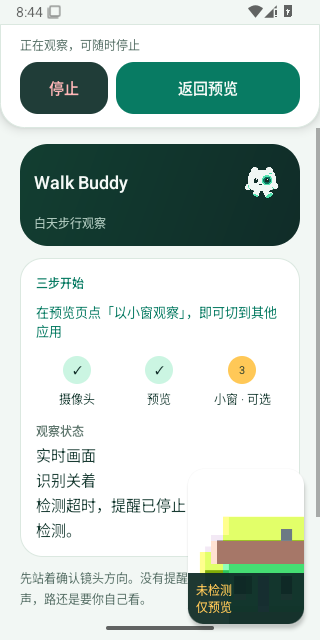
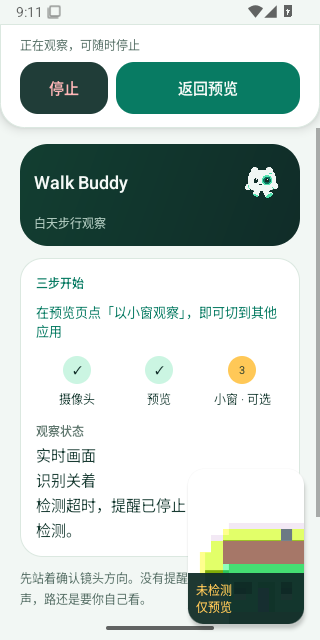
Record validated v0.4.19 recovery and native previews

Changed region(s): [[0.6562, 0.7812, 0.9688, 0.9062], [0.0625, 0.0, 0.125, 0.0312], [0.8438, 0.0, 0.875, 0.0312]]

diff --git a/docs/design/v0.4.19/README.md b/docs/design/v0.4.19/README.md
@@ -1,6 +1,6 @@
 # v0.4.19 检测故障后的原生界面
 
[2 lines of base64/hex data omitted]
 
 画面是 Android 模拟器的虚拟 Camera2 场景；检测超时由测试 worker 阻塞并注入过期分析心跳触发，不是实际识别了图中的对象，也不是实体设备测试。用例检查相机和纹理身份保留、采集/显示时间继续推进、检测与声音关闭、旧反馈清除，释放阻塞后的结果被丢弃。
 
@@ -8,4 +8,8 @@
 | --- | --- |
 | ![检测超时后保持画面，标题和详情显示仅预览](timeout-preview-api35.png) | ![首页上方的系统小窗继续显示画面与未检测状态](timeout-pip-api35.png) |
 
-小窗截图在根视图宽高均小于完整界面、缩窗后真实相机心跳继续推进后采集。首页的“停止 / 返回预览”仍位于顶部，小窗持续显示“未检测 / 仅预览”。这些截图验证此候选的基础预览故障场景；最终候选另增加了增强/姿态状态与故障小窗并存的布局检查，尚待云端完成，不能用本页替代 AR、TalkBack 或 Find X8 Ultra 验收。
+小窗截图在根视图宽高均小于完整界面、缩窗后真实相机心跳继续推进后采集。首页的“停止 / 返回预览”仍位于顶部，小窗持续显示“未检测 / 仅预览”。增强/姿态状态与故障小窗并存的组合布局检查已通过，两套 API 各完成 60 组故障提示呈现。AR、TalkBack 和 Find X8 Ultra 实机仍待验收。
+
+下图仅为 320×480、200% 字体、夜间模式的构造布局，未启动相机；检查故障提示和检测开关在初始视口可见，完整详情可继续滚动。
+
+![大字体故障状态布局测试](timeout-font200-night.png)

diff --git a/docs/profiles/detection-fallback-2026-10-30.md b/docs/profiles/detection-fallback-2026-10-30.md
@@ -30,3 +30,14 @@
 包含实际缩窗检查的 `9c1dc12` 在 [41027940942](https://github.com/cyanrbt/walkbuddy/actions/runs/41027940942) 两套 API 首次通过。最后补充故障小窗与空间增强、姿态提示并存的显示优先级：故障期间只显示“未检测 / 仅预览”，传感器更新不会重新叠加姿态提示；清除故障后可恢复正常的紧凑深度状态。30 组布局中的组合断言覆盖隐藏和恢复，仍待最终候选云端确认。
 
 已实际复核该候选缩窗后的[原生截图](../design/v0.4.19/README.md)：系统小窗位于首页上方，检测停止提示完整可见，首页“停止 / 返回预览”仍位于顶部。最后将纯布局构造中的检测/声音状态也设置为关闭，避免截图继承上一个正常状态；此项只改变测试构造，生产源码不变。
+
+## 最终候选云端核验
+
+最终提交 `9d9880511273f66f9e36b879a46bd52bf39c4df9` 的 [41031071106](https://github.com/cyanrbt/walkbuddy/actions/runs/41031071106) attempt 1 成功：API 35 job `123980674023`、API 36 job `123980674130` 均首次通过，含原严格的模型输入/输出、相机、锁屏/PiP 回归，以及每套两轮受控检测故障和 60 组故障提示呈现。已下载两套附件、校验 ZIP 摘要，并实际查看完整预览、真实缩窗和 200% 夜间布局截图。
+
+| API | artifact / 字节 | SHA-256 | 原始摘要及故障用例记录 |
+| --- | --- | --- | --- |
[2 lines of base64/hex data omitted]
+
+前一提交 [41029357076](https://github.com/cyanrbt/walkbuddy/actions/runs/41029357076) API 35 在检测开启前的锁屏恢复输入处失败，API 36 通过；实际窗口/输入快照已核对，见[原始范围记录](input-after-wake-2026-10-30-v0.4.19.md)。后续通过不证明该问题已消失。最终 API 36 通过日志仍记录过外部 ANR，报告只记观察事实，不据此推断测试结果或因果关系。

diff --git a/docs/验证结果.md b/docs/验证结果.md
@@ -1,3 +1,9 @@
+# 0.4.19 检测故障保留实时预览
+
+- 最终源码 `9d98805` 的 [41031071106](https://github.com/cyanrbt/walkbuddy/actions/runs/41031071106) 两套 API 首次通过，含原有完整模型、相机与两轮 PiP/锁屏，以及新增模型加载失败、阻塞分析、活动帧保留和迟到结果丢弃。原 30 配置 / 120 正常状态之外，每套增加 60 组故障警示与紧凑状态优先级检查；[原始摘要和具体范围](profiles/detection-fallback-2026-10-30.md)已保存，两套附件已实际下载，完整预览、真实系统小窗与 200% 夜间构造布局截图已复核。
+- 仅在采集与显示仍新鲜时，模型错误/1500ms 分析截止会退出检测与全部提醒，保留实时相机；相机过期、锁屏、离屏等继续完整停止。5000ms 启动、1200ms 相机心跳、1000ms 输入/结果和唯一 worker 的所有权规则保留。完整界面与小窗明确显示仅预览，用户需主动重新勾选检测，声音保持关闭。
+- 本地 146 项 JVM 测试、Lint 0 错误/22 警告、应用/测试包构建及产品表面检查通过。首轮错误地将提示条套用按钮最小触摸尺寸的失败已修正；后续旧锁屏输入 UID 失败未宣称解决，真实失败快照见[记录](profiles/input-after-wake-2026-10-30-v0.4.19.md)。AR、TalkBack、Find X8 Ultra 实机与原始性能根因仍待验收和排查。
+
 # 0.4.18 中文类别与取景标签优先级
 
 - 源码 `243fb79` 的 [41009472668](https://github.com/cyanrbt/walkbuddy/actions/runs/41009472668) 最终两套 API 均通过：API 35 首次成功，API 36 原提交重跑失败作业后成功，整轮 run_attempt=2。两套均完成 90 槽 / 80 中文名称、483 次标签排版、56 组输入字节、16 组完整模型输出、四组单/双线程输出、32 组纹理方向、30 配置 / 120 状态 / 660 恢复呈现及完整相机与两轮模型/PiP。四张[原生标签截图](design/v0.4.18/README.md)已复核；这证明本轮名称和排版改动通过检查，首轮窗口输入异常仍未定位。

diff --git a/docs/profiles/input-after-wake-2026-10-30-v0.4.19.md b/docs/profiles/input-after-wake-2026-10-30-v0.4.19.md
@@ -1,0 +1,17 @@
+# v0.4.19 候选锁屏恢复输入失败记录
+
+来源：[41029357076](https://github.com/cyanrbt/walkbuddy/actions/runs/41029357076)，源码 `8349f2be1c1f5113fddd47d0572fadda3ba40031`，API 35 job `123975080161`。失败在首项 `pip_recovery`、检测尚未开启时发生；API 36 同提交成功。后续提交只修正布局构造中的开关状态，生产代码无差异，其 [41031071106](https://github.com/cyanrbt/walkbuddy/actions/runs/41031071106) 两套 API 首次通过。没有据后续通过称输入问题已修复。
+
[1 lines of base64/hex data omitted]
+
+本次确实触发新增采集分支，并在 Activity/instrumentation 清理前写出：
+
+| 快照 | 解码文字长度 |
+| --- | ---: |
+| window | 44,817 |
+| input | 67,536 |
+| activity | 34,597 |
+
+`input` 快照中的 FocusedApplications、FocusedWindows 均已指向 `com.cyanrbt.walkbuddy/.PreviewActivity`。这是注入异常之后采集的状态，不能倒推注入瞬间的目标窗口，尚未证明具体的窗口转换或输入同步根因。该次已收集日志没有 ANR 条目，也没有外部弹窗焦点证据，不能沿用此前 Pixel Launcher ANR 的归因。
+
+本次 Android 15 `window windows` 输出不含报告器当前匹配的 `mCurrentFocus=` 字段，摘要中的 failure_time_focus 因而为空；原始 input 快照仍可人工核对。后续可改善窗口/输入时序取证，但不能把缺字段解释成“没有焦点问题”。新的快照采集和原始异常保留已得到一次真实失败运行验证，根因仍待定位。

diff --git a/docs/releases/v0.4.19.md b/docs/releases/v0.4.19.md
@@ -7,6 +7,6 @@ ARM64 调试包，最低 Android 8；versionCode 31，包名 `com.cyanrbt.walkbu
 - 采集或显示过期、相机故障、锁屏和离屏仍完整停止相机；分析取消仍由原唯一 worker 持有活动帧直到 native 返回，旧结果不会恢复提醒。
 - 增加原生模型加载失败和阻塞分析注入，检查相机/纹理保留、旧反馈清除、小窗警示、迟到结果丢弃及重新开启实际模型。布局覆盖大字体和 96×128 小窗警示。
 
-本地 146 项 JVM 测试通过，Lint 0 错误/22 警告及应用/测试包构建通过。详细行为、时效与验证范围见[检测降级记录](../profiles/detection-fallback-2026-10-30.md)。Android 15/16 云端验证和发布附件核验在完成后补记。
+本地 146 项 JVM 测试通过，Lint 0 错误/22 警告及应用/测试包构建通过。[Android 15/16 原生检查](https://github.com/cyanrbt/walkbuddy/actions/runs/41031071106) 两套 API 首次通过；已下载两套附件并复核[故障界面截图](../design/v0.4.19/README.md)。详细行为、时效与验证范围见[检测降级记录](../profiles/detection-fallback-2026-10-30.md)，此前锁屏输入失败与新快照记录均保留。发布结果由对应 Release APK 流程确认。
 
 模型、识别类别和风险阈值未增加。此版本改善检测故障后的可用性，不表示模型更快、原始超时根因已修复或新增台阶识别。真实设备、AR 深度和系统朗读继续验收。
